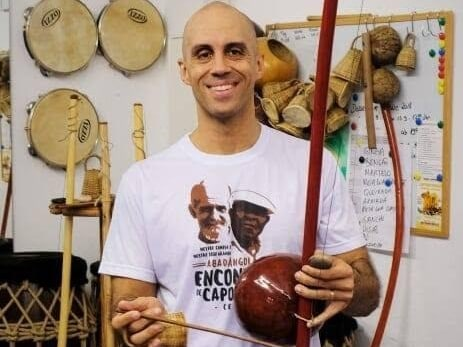
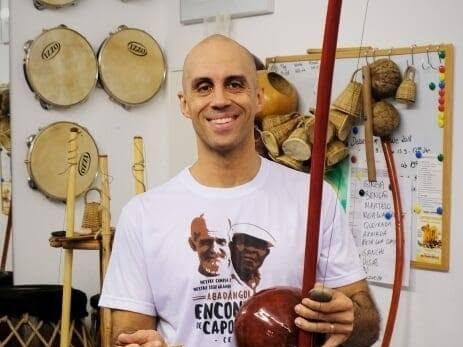
Fix the view of the cards, if image is missing - contine

diff --git a/src/content.config.ts b/src/content.config.ts
@@ -11,8 +11,10 @@ const songs = defineCollection({
     base: './src/content/songs',
     generateId: ({ entry }) => entry.split('/')[0],
   }),
-  schema: ({ image }) =>
-    z
+  schema: () => {
+    const imagePath = z.string().regex(/^\.\//, 'image paths must be relative to the song folder').optional();
+
+    return z
       .object({
         'creation-time': z.iso.datetime({ offset: true }),
         /** First = main title; the rest are other names the song is known by (all searchable). */
@@ -20,11 +22,11 @@ const songs = defineCollection({
         /** Omit this song from the home-page song list and its filters. */
         hidden: z.boolean().default(false),
         tags: z.array(z.enum(TAG_IDS)).default([]),
-        /** The song's picture, as uploaded. */
-        image: image().optional(),
-        /** Crops of `image` for the two card layouts (each falls back to `image`, cropped from its centre). The song page shows `image` itself. */
-        imageWide: image().optional(), // 4:3 — cards on wider screens (and link previews)
-        imageTall: image().optional(), // 4:5 — the thumbnail beside the title on phones
+        /** The song's picture path, resolved at render time so a missing file can use the fallback. */
+        image: imagePath,
+        /** Crops of `image` for the two card layouts. The song page shows `image` itself. */
+        imageWide: imagePath, // 4:3 — cards on wider screens (and link previews)
+        imageTall: imagePath, // 4:5 — the thumbnail beside the title on phones
         /** Picture description for screen readers, in Hebrew (and in English). */
         imageAlt: z.string().default(''),
         imageAltEn: z.string().default(''),
@@ -51,7 +53,8 @@ const songs = defineCollection({
             ctx.addIssue({ code: 'custom', path: [key], message });
           }
         }
-      }),
+      });
+  },
 });
 
 export const collections = { songs };

diff --git a/src/data/i18n.ts b/src/data/i18n.ts
@@ -104,7 +104,8 @@ const he = {
     shareTitle: 'שיתוף',
     tipTitle: 'לא מופיעה אפשרות התקנה?',
     tip: 'ודאו שאתם משתמשים ב-Safari באייפון או ב-Chrome באנדרואיד. שמות האפשרויות עשויים להשתנות מעט בין מכשירים.',
-    appInstalled: 'מזל טוב! האפליקציה הותקנה. חפשו במסך הבית את האייקון הצהוב עם הברימבאו.',
+    appIconLabel: 'שירי קפואירה',
+    appInstalled: 'מזל טוב! האפליקציה הותקנה. חפשו בטלפון את האייקון התכלת עם הברימבאו.',
     backToAbout: 'חזרה לעמוד אודות',
     backToSongs: 'חזרה לשירים',
   },
@@ -189,7 +190,8 @@ const en: typeof he = {
     shareTitle: 'Share',
     tipTitle: 'Don’t see an install option?',
     tip: 'Make sure you’re using Safari on iPhone or Chrome on Android. Menu labels may vary slightly by device.',
-    appInstalled: 'Congratulations! The app is installed. Look for the yellow berimbau icon on your home screen.',
+    appIconLabel: 'שירי קפואירה',
+    appInstalled: 'Congratulations! The app is installed. Look for the turquoise berimbau icon on your phone.',
     backToAbout: 'Back to About',
     backToSongs: 'Back to Songs',
   },

diff --git a/src/lib/song-images.ts b/src/lib/song-images.ts
@@ -1,0 +1,23 @@
+import type { ImageMetadata } from 'astro';
+
+const songImages = import.meta.glob<ImageMetadata>('/src/content/songs/**/*.{avif,gif,jpeg,jpg,png,webp}', {
+  eager: true,
+  import: 'default',
+});
+
+const warnedMissingImages = new Set<string>();
+
+export function getSongImage(songId: string, path?: string): ImageMetadata | undefined {
+  if (!path) return undefined;
+
+  const imagePath = path.replace(/\\/g, '/').replace(/^\.\//, '');
+  const key = `/src/content/songs/${songId}/${imagePath}`;
+  const image = songImages[key];
+
+  if (!image && !warnedMissingImages.has(key)) {
+    warnedMissingImages.add(key);
+    console.warn(`Missing song image: ${songId}/${path}`);
+  }
+
+  return image;
+}

diff --git a/src/content/songs/angola-que-me-leva/index.md b/src/content/songs/angola-que-me-leva/index.md
@@ -2,7 +2,9 @@
 creation-time: "2026-11-19T11:33:26.075Z"
 titles: ["Angola que me leva"]
 tags: [benguela]
+hidden: false
 image: ./cover.jpg
+imageTall: ./tall.jpg
 imageAlt: "Angola que me leva"
 imageAltEn: "Angola que me leva"
 youtube: Y7oWivg-O3U

diff --git a/src/content/songs/vento-que-balanca-a-cana/index.md b/src/content/songs/vento-que-balanca-a-cana/index.md
@@ -1,7 +1,8 @@
 ---
 creation-time: "2026-11-19T09:37:39.225Z"
 titles: ["Vento que balança a cana"]
-tags: []
+tags: [sao-bento]
+hidden: false
 image: ./cover.jpg
 imageAlt: "שדה קני הסוכר"
 imageAltEn: "sugarcane field"

diff --git a/src/content/songs/vou-esperar-a-lua-voltar/index.md b/src/content/songs/vou-esperar-a-lua-voltar/index.md
@@ -2,7 +2,9 @@
 creation-time: "2026-11-17T21:32:02+02:00"
 titles: ["Vou esperar a lua voltar"]
 tags: [sao-bento]
+hidden: false
 image: ./cover.jpg
+imageWide: ./wide.jpg
 imageAlt: ""
 youtube: OOBxSovvfRM
 lyrics: |

diff --git a/src/content/songs/ioio-toca-o-berimbau-viola/index.md b/src/content/songs/ioio-toca-o-berimbau-viola/index.md
@@ -1,6 +1,7 @@
 ---
 creation-time: "2026-11-14T18:05:34+02:00"
 titles: ["ioio, toca o berimbau viola"]
+hidden: false
 tags: [benguela]
 image: ./cover.jpg
 imageWide: ./wide.jpg
